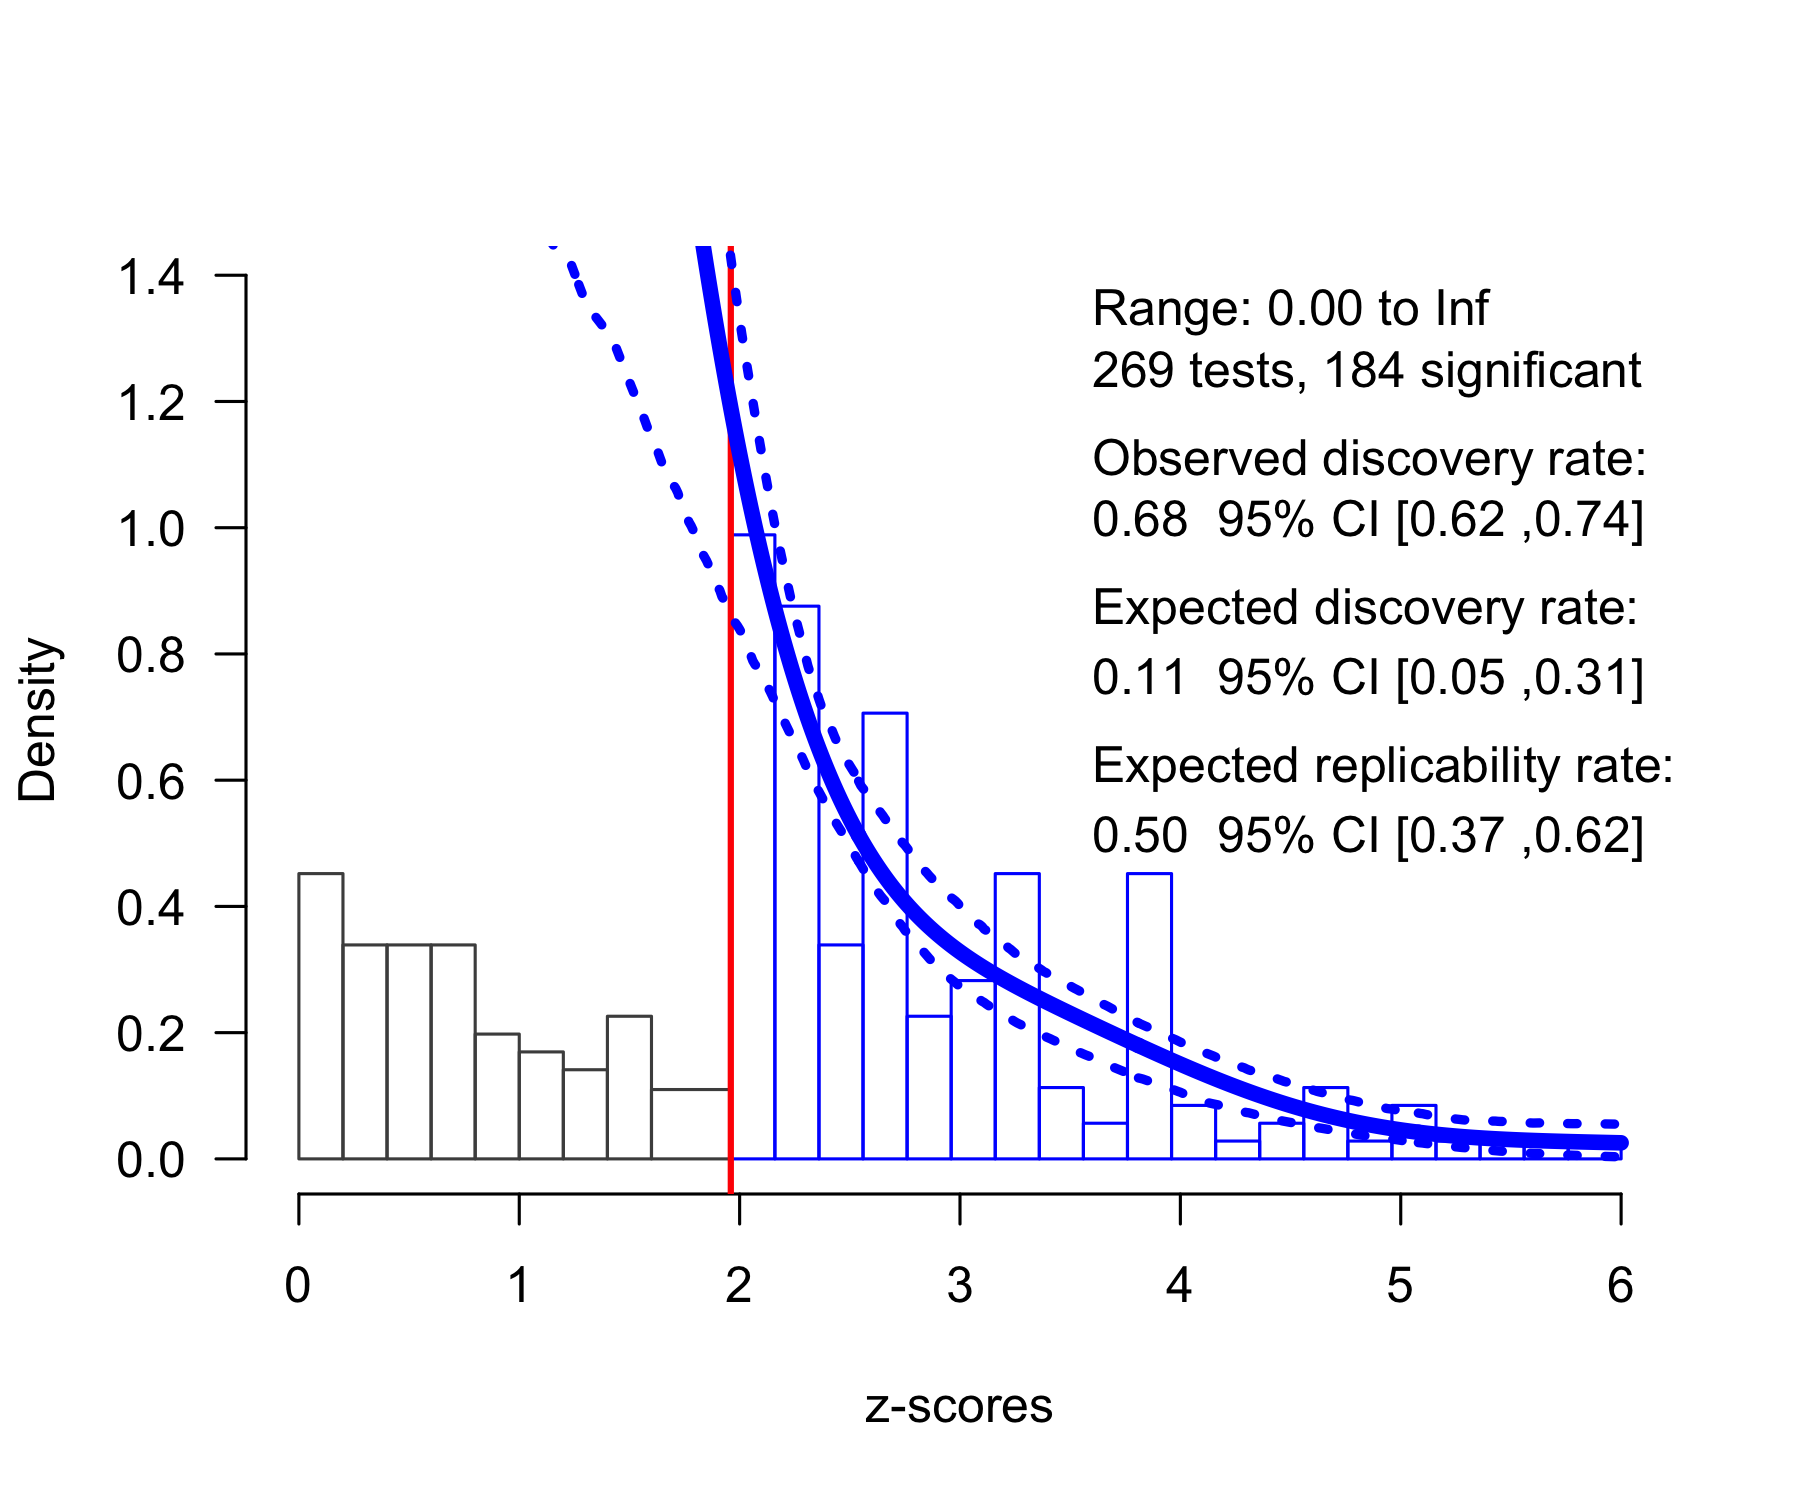
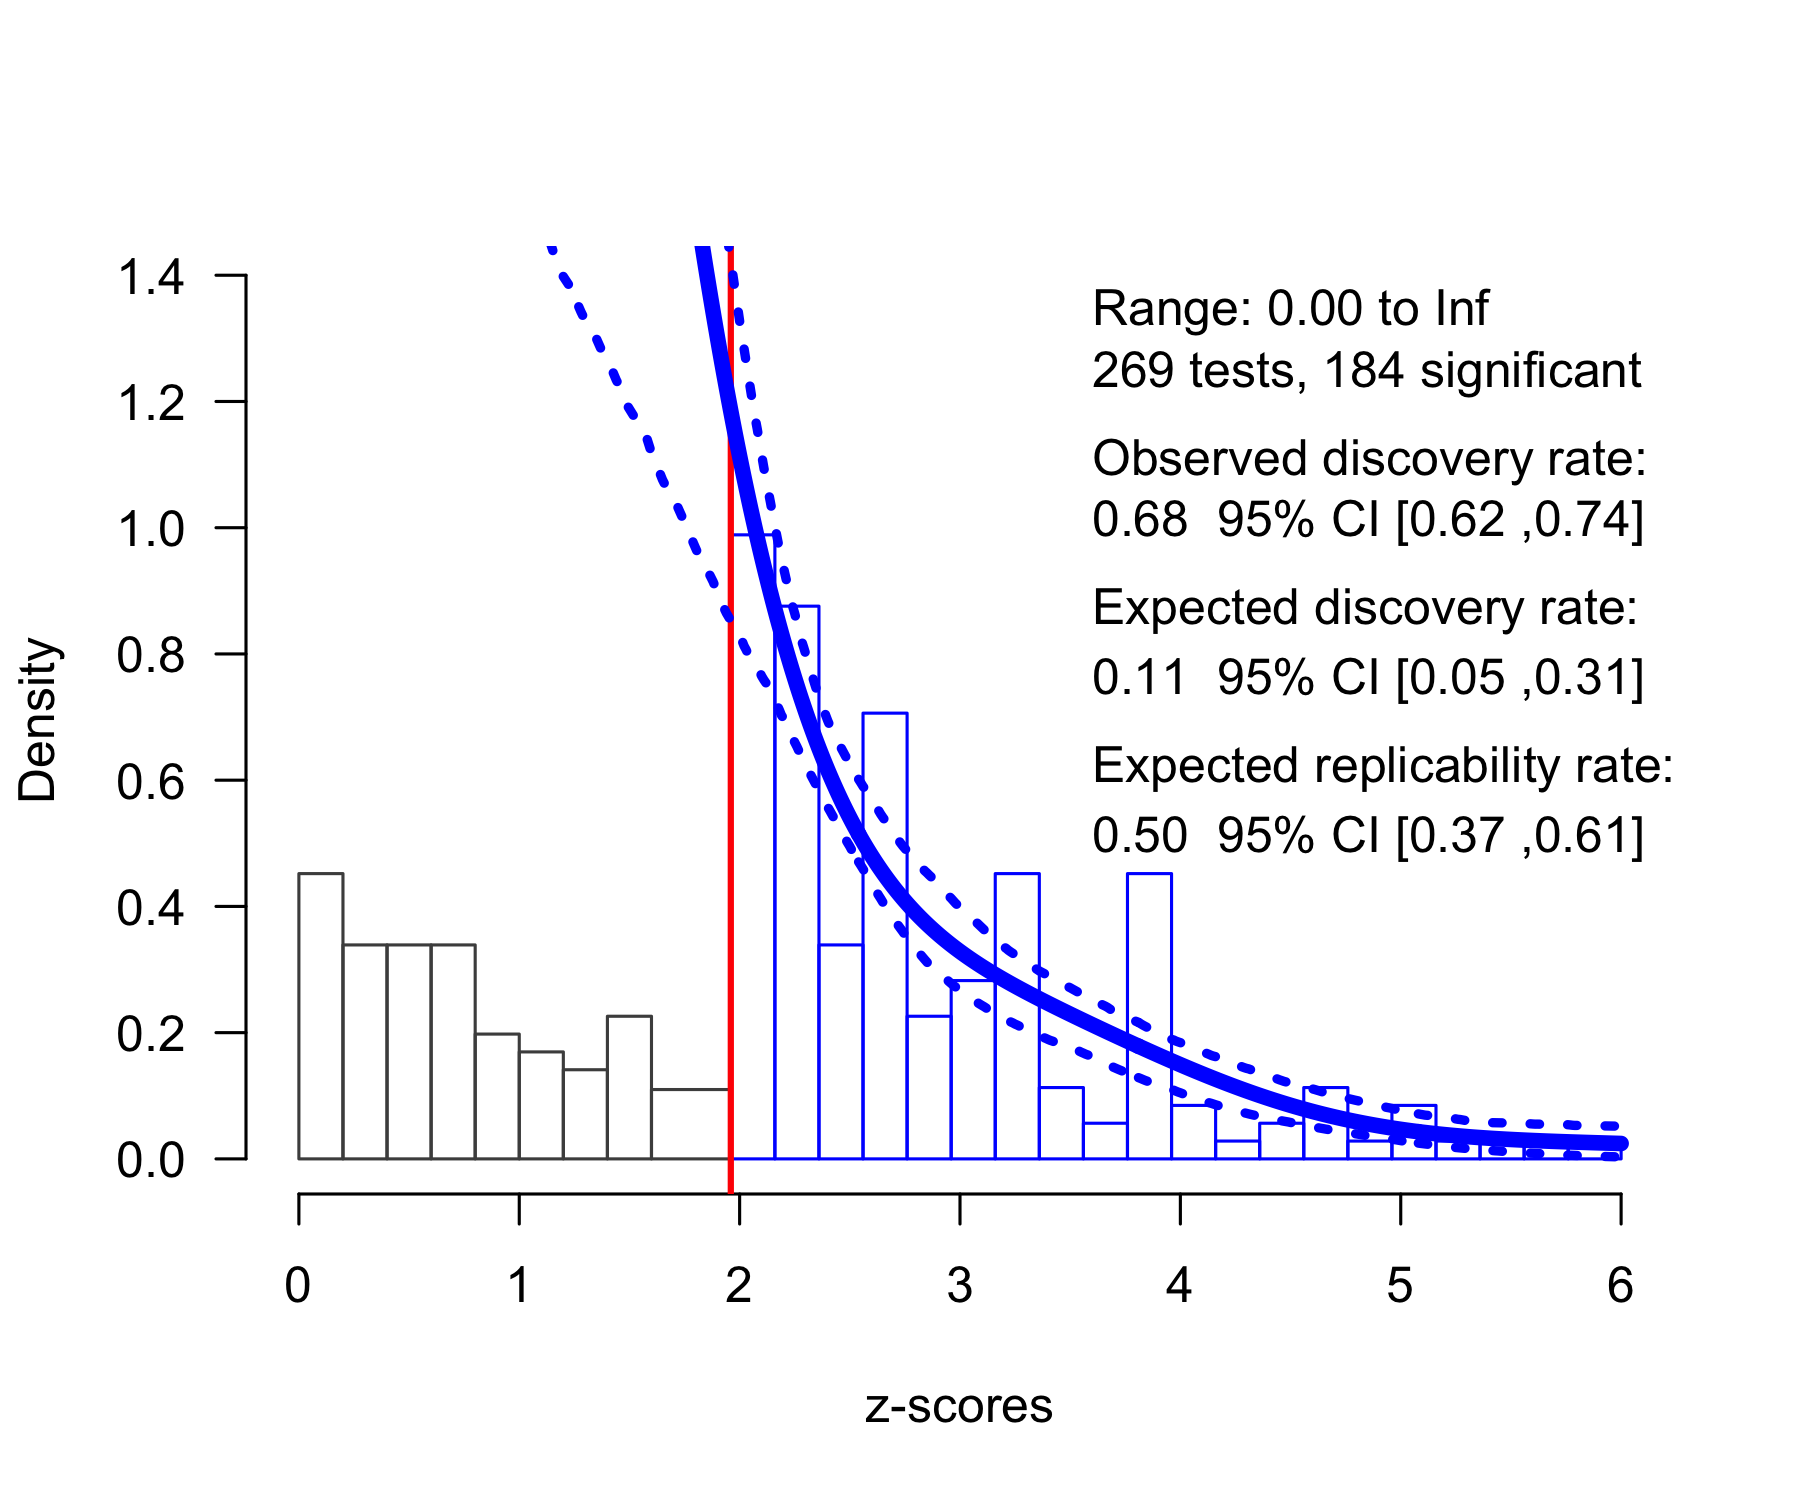
add Zenodo link and project DOI

diff --git a/README.md b/README.md
@@ -103,3 +103,5 @@ quarto render manuscript/zcurve_sensitivity_analysis.qmd
 Both documents read `data/processed/zcurve_data.xlsx` directly. `zcurve.qmd` additionally reads `output/table2.rds` and `output/figure2a.png`-`figure2f.png` (step 2) and sources `03_intercoder_agreement.R` (step 1) while rendering.
 
 (`zcurve.qmd` computes Figure 1 (`fig-fig1.1`) inline with its own code, so no script needs to be run for it. Rendering `zcurve.qmd` also saves Figure 4 (`fig-fig1.4`) to `output/figure4.png`.)
+
+[![DOI](https://zenodo.org/badge/955237113.svg)](https://doi.org/10.5281/zenodo.24319250)
